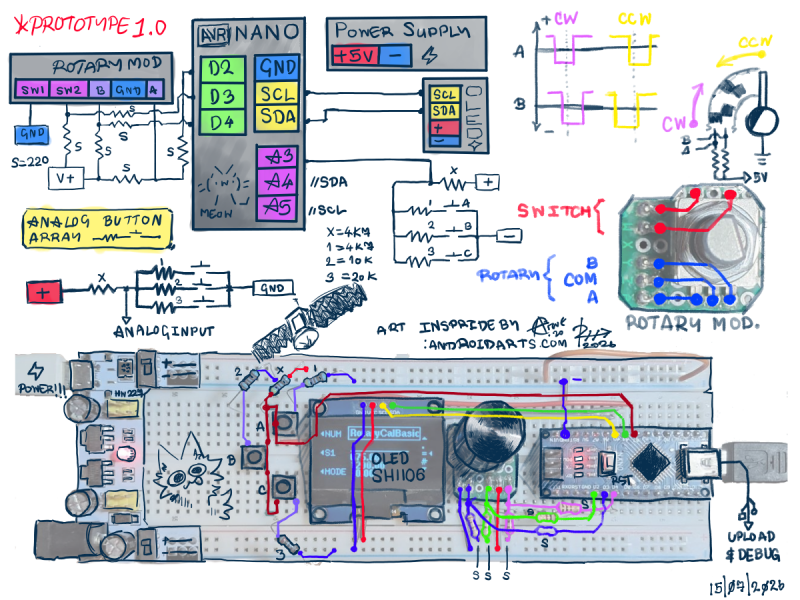
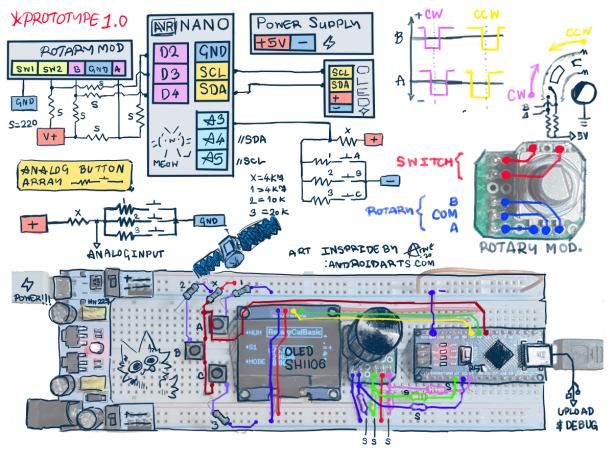
Update Doc

diff --git a/README.md b/README.md
@@ -1,3 +1,5 @@
+![Banner](Media/Banner.png)
+
 # RotaryCalbasic
 The calculator project instead of numpad i just use rotary encoder :3
 
@@ -7,17 +9,74 @@ I always wanted to try the knob (rotary encoder) and I think its now the chance 
 
 First I need to understand the concept of the rotary encoder first. (Well because this is the forst time I ever use this)
 
-When the rotary encoder get rotate, both metal contact under the disk will be touched (IDK what to say) slightly off. When it rotate clockwise the metal A will contact before metal B and t goes in reverse for counter clockwise. So, due to that I wrote that 
+---- Huge Thanks to [Android art](https://androidarts.com)
+
+---
+
+## Rotary Encoder ** MAIN
+
+When the rotary encoder get rotate, both metal contact under the disk will be touched (IDK what to say) slightly off. When it rotate clockwise the metal B will contact before metal A and t goes in reverse for counter clockwise. So, due to that I wrote this. 
 ```ino
 if (knobmov) { // Check falling on pin A
     if (!knobvalueb) // Check status pin B
-        CW // Contact A when B is not contacted
+        CCW // Contact A when B is not contacted
     else
-        CCW // Contact A when B is already contacted
+        CW // Contact A when B is already contacted
 }
 ```
+There are several issue in the knob spinning. The microcontroller cant process it quickly enough to compare the input soo there will be some disturbance to the input.
+![Rotary Encoder](Media/Rotary%20Encoder.png)
 
-The display system use ["u8g2"](https://github.com/olikraus/u8g2) libary and i use [lopaka](https://lopaka.app)
+---
+
+## Display
+
+The display system use ["u8g2"](https://github.com/olikraus/u8g2) libary and i use [lopaka](https://lopaka.app) for designing the display :3
+![lopaka](Media/lopaka.png)
+PS this part of the code is taking to much memory because i did use fullscreen buffer now i use 1 section buffer.
+
+---
+
+## ButtonArray
+
+Next The Button , now you would ask that how can we reduce the input of the multiple button into 1 single pin ???
+
+There's a method called "[**voltage divider**](https://en.wikipedia.org/wiki/Voltage_divider)" that slove the issue!
+
+The voltage divided so the anaog input can translate the input and then calculate the input.
+
+![Voltage divider](Media/ButtonArray.png)
+
+---
+
+## Math Function\Libary
+
+Most of the time the math s calcuated in the programe but not in string soooo i use the math libary i found. its called "[tinyexpr.h](https://github.com/codeplea/tinyexpr/tree/master)" its a small libary for the math expression progress in string (array of char)
+
+they can do all of the math function in c.
+
+---
+
+## Video demonstration
+
+the video was taken with PC webcam, 8 megapixel no auto focus, on a pcb ruler
+
+this video will explain and demonstrate on how to use the device and explain each part of the calculator (with comparation of the regular calcuator)
+
+<video width="320" height="240" controls>
+  <source src="Media/WIN_20260717_18_33_36_Pro.mp4" type="video/mp4">
+Your browser does not support the video tag.
+</video>
+
+---
+
+## Future design
+
+![RCB2](Media/RCB2.png)
+
+This is the future design for the future design (if i have more supply and more time)
+
+---
 
 This is the short version? ![idk](Media/RCB1.png)
 
@@ -31,3 +90,11 @@ rn it use `=` for result and `#` for delete the recent character
 the math libary it use is `tinyexpr.h` it is very handy for some thing that require this less memory and storage ( By now 88% storage and 66% memory ) 
 
 **16|07|2026** I upgraded the function in to version 1.2
+
+**17|07|2026** LAST HOURRRRR
+
+---
+
+## Extra!
+
+![RCB3](Media/RCB3.png)